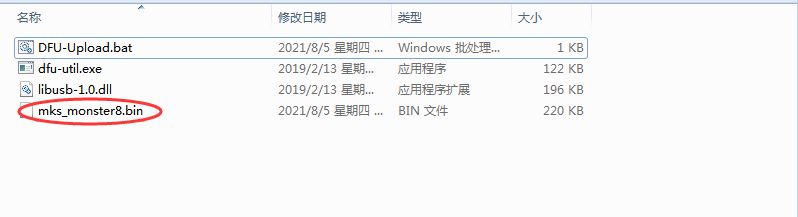
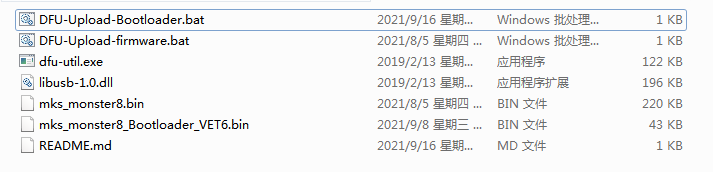
Update readme and pic

diff --git a/tool/DFU-Upload/README.md b/tool/DFU-Upload/README.md
@@ -11,3 +11,5 @@
   - DFU-Upload-firmware.bat
   
 - Tips: Can not be modified bootloader's or firmware's file name. Otherwise, DFU cannot be update it.
+
+- More information refer to: https://github.com/makerbase-mks/MKS-Monster8/wiki/DFU_upload
